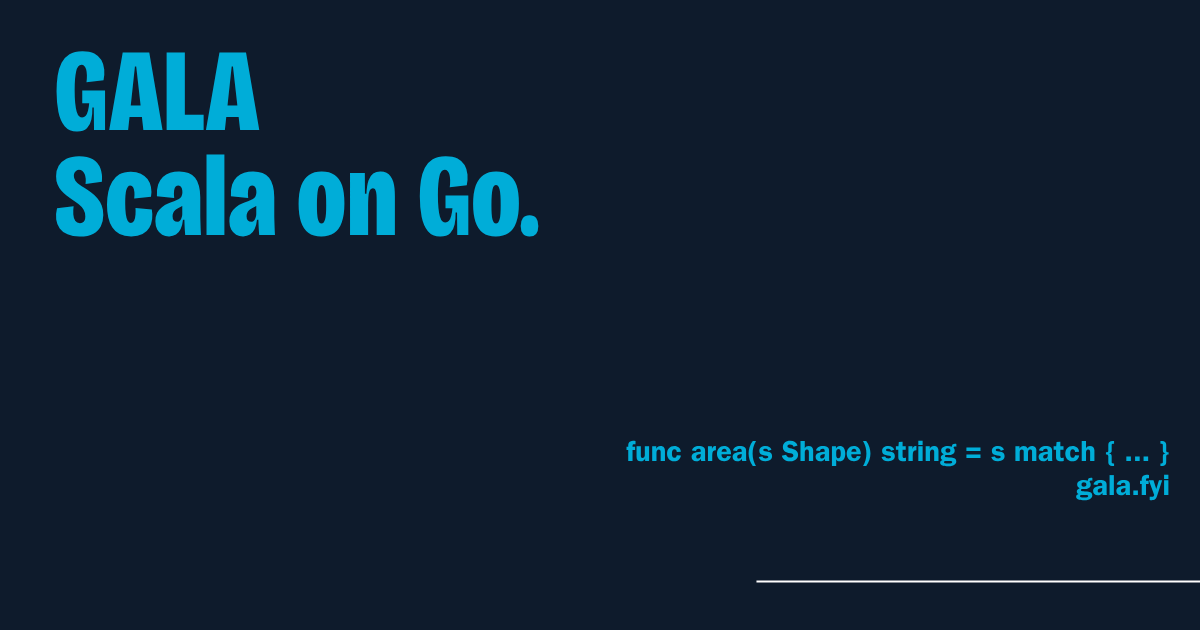
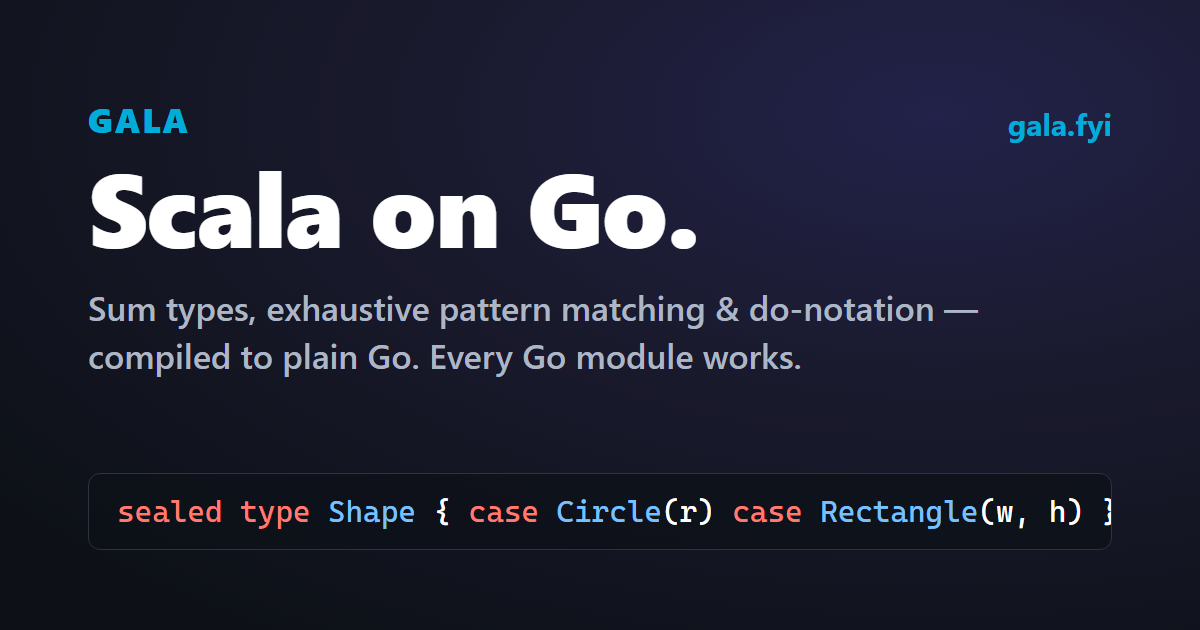
feat(website): syntax-highlighted code, dark code cards, mobile nav, OG image
- Add a custom GALA Prism.js grammar + prism-tomorrow theme so all code
  blocks are syntax-highlighted (was flat monochrome — the biggest visual
  gap for a language site). Progressive enhancement: falls back to the
  current light block if Prism fails to load.
- Style code as dark editor cards (radius, border, shadow) on the white page.
- Mobile: nav becomes a swipeable strip (no more clipped items), smaller
  hero + code fonts so nothing overflows.
- Refresh the OG social card (1200x630) to the current Scala-on-Go /
  do-notation messaging for launch link previews.

diff --git a/website/_layouts/default.html b/website/_layouts/default.html
@@ -55,6 +55,9 @@
   }
   </script>
 
+  <!-- Prism syntax highlighting theme -->
+  <link href="https://cdn.jsdelivr.net/npm/prismjs@1.29.0/themes/prism-tomorrow.min.css" rel="stylesheet">
+
   <style>
     :root {
       --bg: #ffffff;
@@ -152,6 +155,19 @@
       margin-bottom: 1.5rem;
     }
     pre code { background: none; padding: 0; }
+    /* Syntax-highlighted code cards (Prism). Falls back to the light --code-bg
+       block above if the class is absent (e.g. Prism JS fails to load). */
+    pre[class*="language-"] {
+      border-radius: 10px;
+      border: 1px solid #2d3340;
+      padding: 1.15rem 1.35rem;
+      box-shadow: 0 8px 24px rgba(0,0,0,0.12);
+      margin-bottom: 1.5rem;
+    }
+    pre[class*="language-"], code[class*="language-"] {
+      font-family: 'Cascadia Code', 'SF Mono', 'Consolas', Menlo, monospace;
+      font-size: 0.86rem;
+    }
     table {
       width: 100%;
       border-collapse: collapse;
@@ -209,7 +225,14 @@
     .comparison > div > p:first-child { font-weight: 600; margin-bottom: 0.5rem; }
     @media (max-width: 640px) {
       .comparison { grid-template-columns: 1fr; }
-      nav { padding: 0.75rem 1rem; gap: 1rem; }
+      /* Nav becomes a swipeable strip so items never get clipped on small screens */
+      nav { padding: 0.6rem 0.9rem; gap: 0.9rem; flex-wrap: nowrap; overflow-x: auto; -webkit-overflow-scrolling: touch; }
+      nav::-webkit-scrollbar { display: none; }
+      nav a { font-size: 0.85rem; white-space: nowrap; }
+      nav .logo { margin-right: 0.9rem; }
+      pre[class*="language-"], code[class*="language-"] { font-size: 0.78rem; }
+      .hero h1 { font-size: 2rem; }
+      .hero .tagline { font-size: 1.05rem; }
     }
     .breadcrumb {
       font-size: 0.85rem;
@@ -286,5 +309,45 @@
   <footer>
     GALA Language &mdash; Apache 2.0 License &mdash; <a href="https://github.com/martianoff/gala">GitHub</a>
   </footer>
+
+  <!-- Prism syntax highlighting: custom GALA grammar over prism-core -->
+  <script src="https://cdn.jsdelivr.net/npm/prismjs@1.29.0/components/prism-core.min.js"></script>
+  <script>
+    Prism.languages.gala = {
+      'comment': { pattern: /\/\/.*|\/\*[\s\S]*?\*\//, greedy: true },
+      'string': {
+        pattern: /[sf]?"(?:[^"\\]|\\.)*"/,
+        greedy: true,
+        inside: {
+          'interpolation': {
+            pattern: /\$\{[^}]*\}/,
+            inside: {
+              'punctuation': /^\$\{|\}$/,
+              'number': /\b\d+(?:\.\d+)?\b/,
+              'operator': /[+\-*\/]/
+            }
+          },
+          'format': { pattern: /%[.\d]*[a-zA-Z]/, alias: 'symbol' }
+        }
+      },
+      'keyword': /\b(?:sealed|type|case|func|match|val|var|bind|also|bindable|lift|if|else|for|while|switch|default|import|package|struct|trait|given|return|extends|with|const|range|go|defer|chan|select|nil)\b/,
+      'boolean': /\b(?:true|false)\b/,
+      'builtin': /\b(?:int|int8|int16|int32|int64|uint|string|float64|float32|bool|byte|rune|any|error|Option|Either|Try|Future|IO|List|Array|HashMap|HashSet|TreeSet|TreeMap|Validated|ConstPtr|Stream|Tuple)\b/,
+      'class-name': /\b[A-Z]\w*/,
+      'function': /\b[a-z_]\w*(?=\s*\()/,
+      'number': /\b\d+(?:\.\d+)?\b/,
+      'operator': /=>|->|:=|[=+\-*\/<>!]=?|&&|\|\||[&|%]/,
+      'punctuation': /[{}[\];(),.:]/
+    };
+    (function () {
+      document.querySelectorAll('pre > code').forEach(function (c) {
+        if (!/language-/.test(c.className)) {
+          c.classList.add('language-gala');
+          c.parentElement.classList.add('language-gala');
+        }
+      });
+      Prism.highlightAll();
+    })();
+  </script>
 </body>
 </html>
